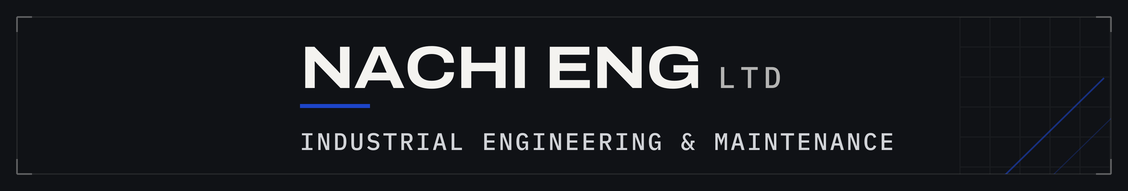
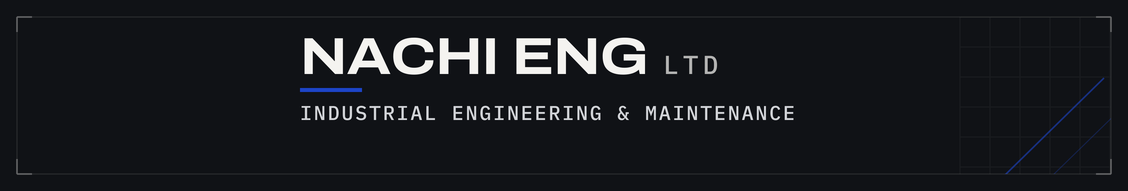
Corrected. Content is now shifted upward and slightly reduced, with a generous bottom margin (~70 px below the second line), so LinkedIn's top/bottom crop can no longer clip "INDUSTRIAL ENGINEERING & MAINTENANCE". Dark background, blue divider accent and subtle far-right linework preserved.
**Deliverable (exactly 1128 × 191 px PNG):**
`/app/assets/linkedin/nachi-eng-linkedin-banner-1128x191.png`

Only the revised PNG was produced; website, GitHub repository and Vercel deployment are untouched.

Changed region(s): [[0.2482, 0.1832, 0.7137, 0.4974], [0.2482, 0.6806, 0.8067, 0.7853], [0.2482, 0.5236, 0.7137, 0.6283]]

diff --git a/scripts/build_linkedin_banner_dark.py b/scripts/build_linkedin_banner_dark.py
@@ -63,15 +63,15 @@ for (cx, cy, dx, dy) in [(17, 17, 1, 1), (W-17, 17, -1, 1), (17, H-17, 1, -1), (
 cm.append("</g>")
 s.append("".join(cm))
 
-# --- two-line lockup, enlarged; left edge 300 keeps the lower-left logo-overlap zone clear ---
+# --- two-line lockup: compact + shifted up so LinkedIn's top/bottom crop can't clip it ---
 LX = 300
-BIG = 60
-g1, w1 = text_group(archivo700, "NACHI ENG", BIG, LX, 88, PAPER, tr=-0.02)
+BIG = 52
+g1, w1 = text_group(archivo700, "NACHI ENG", BIG, LX, 74, PAPER, tr=-0.02)
 s.append(g1)
-g1b, _ = text_group(plex500, "LTD", BIG * 0.5, LX + w1 + 16, 88, PAPER, tr=0.16, opacity=0.72)
+g1b, _ = text_group(plex500, "LTD", BIG * 0.5, LX + w1 + 15, 74, PAPER, tr=0.16, opacity=0.72)
 s.append(g1b)
-s.append(f'<rect x="{LX}" y="104" width="70" height="4" fill="{SIGNAL}"/>')
-g2, _ = text_group(plex500, "INDUSTRIAL ENGINEERING & MAINTENANCE", 24, LX, 150, LINE2, tr=0.09)
+s.append(f'<rect x="{LX}" y="88" width="62" height="4" fill="{SIGNAL}"/>')
+g2, _ = text_group(plex500, "INDUSTRIAL ENGINEERING & MAINTENANCE", 20, LX, 120, LINE2, tr=0.09)
 s.append(g2)
 
 s.append("</svg>")
